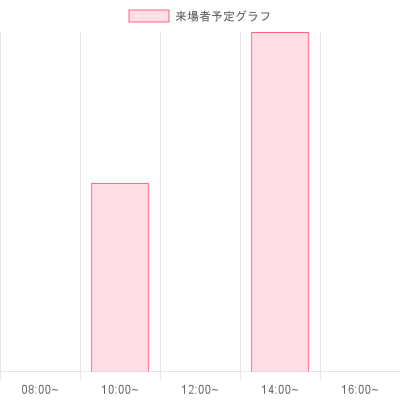
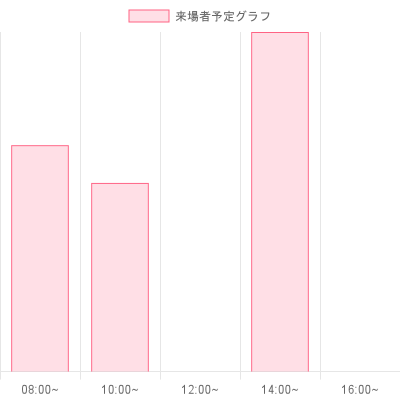
予約メッセージ

Changed region(s): [[0.03, 0.36, 0.18, 0.93]]

diff --git a/index.js b/index.js
@@ -208,7 +208,10 @@ app.post('/bot/webhook', line.middleware(line_config), (req, res, next) => {
                                                             firstEventJson.footer.contents[0].action.data = 'event_id=' + res.rows[i].event_cd + '=' + res.rows[i].kaisaiti_cd + '=' + f_dataDate
                                                         }
 
-                                                        firstEventJson.hero.url = 'https://' + req.get('host') + '/' + '12023_05_19.png'
+                                                        let f_file = res.rows[i].kaisaiti_cd + f_dataDate.replace(/\//g, '_')
+                                                        console.log(f_file)
+
+                                                        firstEventJson.hero.url = 'https://' + req.get('host') + '/' + f_file + '.png'
 
                                                         data[0].contents.contents.push({ ...firstEventJson })
 
@@ -243,7 +246,10 @@ app.post('/bot/webhook', line.middleware(line_config), (req, res, next) => {
                                                                 secondEventJson.footer.contents[0].action.data = 'event_id=' + res.rows[i].event_cd + '=' + res.rows[i].kaisaiti_cd + '=' + s_dataDate
                                                             }
 
-                                                            secondEventJson.hero.url = 'https://' + req.get('host') + '/' + '12023_05_19.png'
+                                                            let s_file = res.rows[i].kaisaiti_cd + s_dataDate.replace(/\//g, '_')
+                                                            console.log(s_file)
+
+                                                            secondEventJson.hero.url = 'https://' + req.get('host') + '/' + s_file + '.png'
                                                             console.log(secondEventJson.hero.url)
                                                             data[0].contents.contents.push({ ...secondEventJson })
                                                         }
@@ -275,11 +281,13 @@ app.post('/bot/webhook', line.middleware(line_config), (req, res, next) => {
             // ユーザーからのテキストメッセージが「予約確認」だった場合のみ反応。
             else if (event.message.text == "予約確認") {
                 //データを取りだす
-                const bufferData = fs.readFileSync('kakunin.json')
+                let bufferData = fs.readFileSync('kakunin.json')
                 // データを文字列に変換
-                const dataJSON = bufferData.toString()
+                let dataJSON = bufferData.toString()
                 //JSONのデータをJavascriptのオブジェクトに
-                const data = JSON.parse(dataJSON)
+                let data = JSON.parse(dataJSON)
+                let data_message = []
+                data[0].contents.contents = []
 
                 let query_event_base = {
                     text: "SELECT *" +
@@ -310,23 +318,92 @@ app.post('/bot/webhook', line.middleware(line_config), (req, res, next) => {
                                         let query_yoyaku = {
                                             text: "SELECT *" +
                                                 "  FROM t_yoyaku t1" +
-                                                "  LEFT OUTER JOIN" +
+                                                " INNER JOIN" +
                                                 "       m_event m1" +
                                                 "    ON t1.event_cd = m1.event_cd" +
                                                 "   AND t1.kaisaiti_cd = m1.kaisaiti_cd" +
+                                                " INNER JOIN" +
+                                                "       m_event_base m2" +
+                                                "    ON m1.event_cd = m2.event_cd" +
+                                                " INNER JOIN m_kaisaiti k" +
+                                                "    ON m1.kaisaiti_cd = k.kaisaiti_cd" +
                                                 " WHERE t1.user_id = $1" + 
-                                                "   AND t1.event_cd = $2",
+                                                "   AND t1.event_cd = $2" +
+                                                " ORDER BY t1.reserve_time",
                                             values: [res.rows[0].user_id, event_cd],
                                         }
 
                                         client.query(query_yoyaku)
                                             .then((res) => {
+                                                let end = 0
+                                                let start = 0
 
+                                                let row = Math.ceil(res.rows.length / 12)
+                                                console.log(row)
 
+                                                for (let I = 0; I < row; I++) {
+                                                    console.log("roop start")
+                                                    if (res.rows.length <= 12) {
+                                                        end = res.rows.length
+                                                    }
+                                                    else {
+                                                        if (res.rows.length - end > 12) {
+                                                            end = (I + 1) * 12
+                                                        }
+                                                        else {
+                                                            end = res.rows.length
+                                                        }
 
+                                                        start = (I) * 12
+                                                    }
+                                                    for (let i = start; i < end; i++) {
 
-                                                // replyMessage()で返信し、そのプロミスをevents_processedに追加。
-                                                events_processed.push(bot.replyMessage(event.replyToken, data))
+                                                        let date = new Date(res.rows[i].reserve_time)
+                                                        let year = date.getFullYear()
+                                                        let month = ('0' + (date.getMonth() + 1)).slice(-2)
+                                                        let day = ('0' + date.getDate()).slice(-2)
+                                                        let dayOfWeek = ['日', '月', '火', '水', '木', '金', '土'][date.getDay()]
+                                                        let formattedDate = `${year}年${month}月${day}日（${dayOfWeek}）`
+                                                        let dataDate = `${year}/${month}/${day}`
+                                                        let dataTime = date.toLocaleTimeString('en-GB', { hour: 'numeric', minute: 'numeric' })
+                                                        
+                                                        let f_stime = new Date('2023-04-01T' + res.rows[i].first_start_time)
+                                                        let f_etime = new Date('2023-04-01T' + res.rows[i].first_end_time)
+                                                        let s_stime = new Date('2023-04-01T' + res.rows[i].second_start_time)
+                                                        let s_etime = new Date('2023-04-01T' + res.rows[i].second_end_time)
+                                                        let F_SformattedTime = f_stime.toLocaleTimeString('en-GB', { hour: 'numeric', minute: 'numeric' }) // ロケールに基づいた形式の時間に変換する
+                                                        let F_EformattedTime = f_etime.toLocaleTimeString('en-GB', { hour: 'numeric', minute: 'numeric' })
+                                                        let S_SformattedTime = s_stime.toLocaleTimeString('en-GB', { hour: 'numeric', minute: 'numeric' }) // ロケールに基づいた形式の時間に変換する
+                                                        let S_EformattedTime = s_etime.toLocaleTimeString('en-GB', { hour: 'numeric', minute: 'numeric' })
+
+                                                        let EventJson = JSON.parse(dataJSON)[0].contents.contents[0]
+                                                        EventJson.header.contents[0].text = res.rows[i].event_nm + '/' + res.rows[i].kaisaiti_nm + '会場'
+                                                        EventJson.body.contents[0].text = formattedDate
+                                                        if(dataDate == res.rows[i].first_day){
+                                                            EventJson.body.contents[1].text = '開催時間　' + F_SformattedTime + '～' + F_EformattedTime
+                                                        }
+                                                        else{
+                                                            EventJson.body.contents[1].text = '開催時間　' + S_SformattedTime + '～' + S_EformattedTime
+                                                        }
+                                                        EventJson.body.contents[2].text = '場所　' + res.rows[i].place_name
+                                                        let address = res.rows[i].place_address
+                                                        EventJson.body.contents[3].action.label = address
+                                                        EventJson.body.contents[3].action.uri = "https://www.google.com/maps/search/?api=1&query=" + encodeURIComponent(address)
+                                                        EventJson.body.contents[4].text = '来場予定時間　' + dataTime
+
+                                                        EventJson.footer.contents[0].action.data = 'torikesi=' + res.rows[i].id
+                                                        EventJson.footer.contents[1].action.data = 'henko=' + res.rows[i].id + '=' + dataDate
+
+                                                        data[0].contents.contents.push({ ...EventJson })
+                                                    }
+
+                                                    data_message.push({ ...data[0] })
+                                                    data = JSON.parse(dataJSON)
+                                                    data[0].contents.contents = []
+                                                }
+
+                                               // replyMessage()で返信し、そのプロミスをevents_processedに追加。
+                                                events_processed.push(bot.replyMessage(event.replyToken, data_message))
 
                                             })
 
@@ -420,12 +497,12 @@ app.post('/bot/webhook', line.middleware(line_config), (req, res, next) => {
             // 「イベント一覧」の場合
             if (event.postback.data.split('=')[0] == "event_id") {
                 // DB登録処理
-                const query = {
+                let query = {
                     text: 'INSERT INTO t_yoyaku(event_cd, kaisaiti_cd, user_id, reserve_time) VALUES($1, $2, $3, $4)',
                     values: [event.postback.data.split('=')[1], event.postback.data.split('=')[2], event.source.userId, event.postback.data.split('=')[3] + ' ' + event.postback.params.time + ':00.000'],
                 }
 
-                const query_id = {
+                let query_id = {
                     text: "SELECT setval('t_yoyaku_id_seq', (SELECT MAX(id) FROM t_yoyaku))",
                 }
 
@@ -461,7 +538,7 @@ app.post('/bot/webhook', line.middleware(line_config), (req, res, next) => {
             }
             else if (event.postback.data.split('=')[0] == "a_ninzu") {
 
-                const query = {
+                let query = {
                     text: 'UPDATE t_yoyaku' +
                         '   SET reserve_a_count = $1' +
                         ' WHERE id = $2',
@@ -476,11 +553,11 @@ app.post('/bot/webhook', line.middleware(line_config), (req, res, next) => {
                             .then(() => {
                                 console.log('Data Updated.')
                                 //データを取りだす
-                                const bufferData = fs.readFileSync('c_ninzu.json')
+                                let bufferData = fs.readFileSync('c_ninzu.json')
                                 // データを文字列に変換
-                                const dataJSON = bufferData.toString()
+                                let dataJSON = bufferData.toString()
                                 //JSONのデータをJavascriptのオブジェクトに
-                                const data = JSON.parse(dataJSON)
+                                let data = JSON.parse(dataJSON)
 
                                 var post = event.postback.data.split('=')
                                 for (let i = 0; i < 10; i++) {
@@ -497,7 +574,7 @@ app.post('/bot/webhook', line.middleware(line_config), (req, res, next) => {
 
                 let post = event.postback.data.replace(/,/g, '=')
                 // DB登録処理
-                const query = {
+                let query = {
                     text: 'UPDATE t_yoyaku' +
                         '   SET reserve_c_count = $1' +
                         ' WHERE id = $2',
@@ -586,10 +663,10 @@ app.post('/bot/webhook', line.middleware(line_config), (req, res, next) => {
                                             console.log(res.rows[0].ninzu3)
                                             console.log(res.rows[0].ninzu4)
 
-                                            const canvas = createCanvas(400, 400);
-                                            const ctx = canvas.getContext('2d');
+                                            let canvas = createCanvas(400, 400);
+                                            let ctx = canvas.getContext('2d');
             
-                                            const graphdata = {
+                                            let graphdata = {
                                             datasets: [{
                                                 label: '来場者予定グラフ',
                                                 data: res.rows[0],
@@ -603,7 +680,7 @@ app.post('/bot/webhook', line.middleware(line_config), (req, res, next) => {
                                             }]
                                             };
             
-                                            const chart = new Chart(ctx, {
+                                            let chart = new Chart(ctx, {
                                             type: 'bar',
                                             data: graphdata,
                                             options: {
@@ -626,14 +703,14 @@ app.post('/bot/webhook', line.middleware(line_config), (req, res, next) => {
 
                                             let file = post.split('=')[4] + post.split('=')[5].replace(/\//g, '_')
             
-                                            const graphDir = path.join(__dirname, 'graph')
+                                            let graphDir = path.join(__dirname, 'graph')
                                             if (!fs.existsSync(graphDir)) {
                                                 fs.mkdirSync(graphDir)
                                             }
                                             app.use(express.static(graphDir))
 
-                                            const out = fs.createWriteStream(graphDir + '/' + file +'.png');
-                                            const stream = canvas.createPNGStream();
+                                            let out = fs.createWriteStream(graphDir + '/' + file +'.png');
+                                            let stream = canvas.createPNGStream();
                                             stream.pipe(out);
 
                                             console.log(req.protocol + '://' + req.get('host') + '/' + file + '.png')
@@ -655,7 +732,68 @@ app.post('/bot/webhook', line.middleware(line_config), (req, res, next) => {
 
                 events_processed.push(bot.replyMessage(event.replyToken, message))                
             }
+            else if (event.postback.data.split('=')[0] == "torikesi") {
+                // DB登録処理
+                let query = {
+                    text: 'DELETE' +
+                          '  FROM t_yoyaku' +
+                          ' WHERE id = $1',
+                    values: [event.postback.data.split('=')[1]],
+                }
 
+                client.connect(function (err, client) {
+                    if (err) {
+                        console.log(err)
+                    } else {
+                        client
+                            .query(query)
+                            .then(() => {
+                                console.log('Data Deleted.')
+
+                                let message = {
+                                    type: 'text',
+                                    text: '取消が完了しました'
+                                }
+                
+                                events_processed.push(bot.replyMessage(event.replyToken, message))     
+                            })
+                            .catch((e) => {
+                                console.error(e.stack)
+                            })
+                    }
+                })
+            }
+            else if (event.postback.data.split('=')[0] == "henko") {
+                // DB登録処理
+                let query = {
+                    text: 'UPDATE t_yoyaku' +
+                          '   SET reserve_time = $1' +
+                          ' WHERE id = $2',
+                    values: [event.postback.data.split('=')[2] + ' ' + event.postback.params.time + ':00.000', event.postback.data.split('=')[1]],
+                }
+
+                client.connect(function (err, client) {
+                    if (err) {
+                        console.log(err)
+                    } else {
+                        client
+                            .query(query)
+                            .then(() => {
+                                console.log('Data Updated.')
+
+                                let message = {
+                                    type: 'text',
+                                    text: '変更が完了しました'
+                                }
+                
+                                events_processed.push(bot.replyMessage(event.replyToken, message))     
+                            })
+                            .catch((e) => {
+                                console.error(e.stack)
+                            })
+                    }
+                })
+            }
 
         }
         else {
